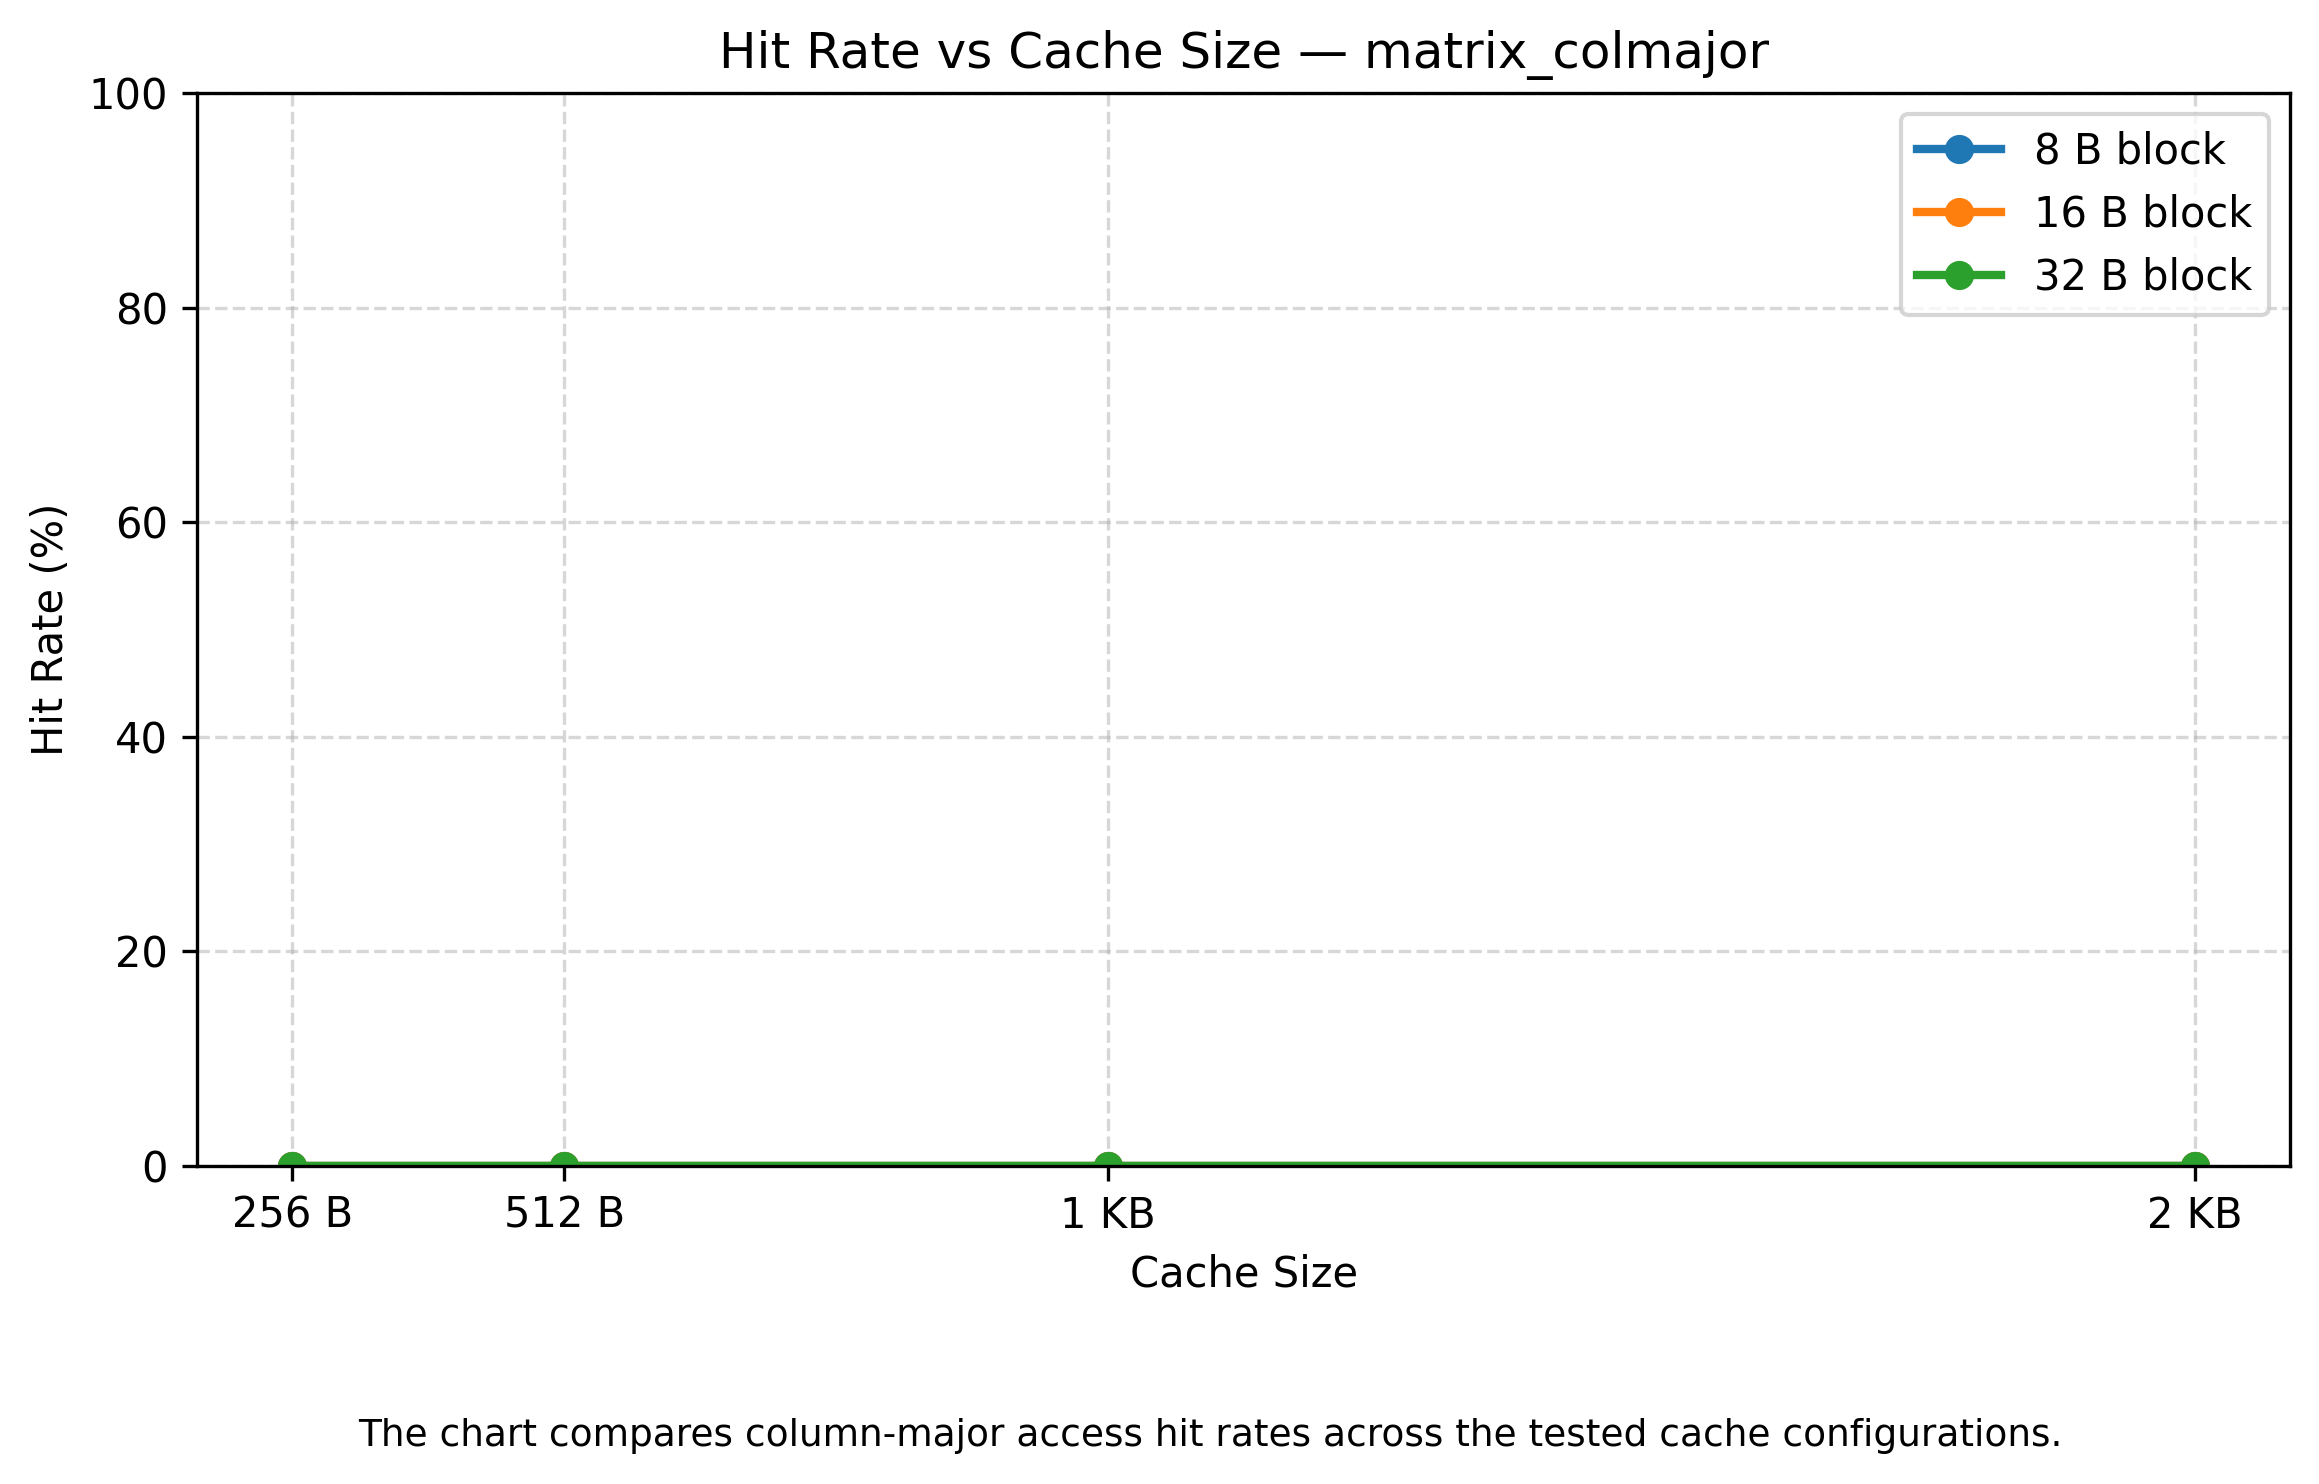
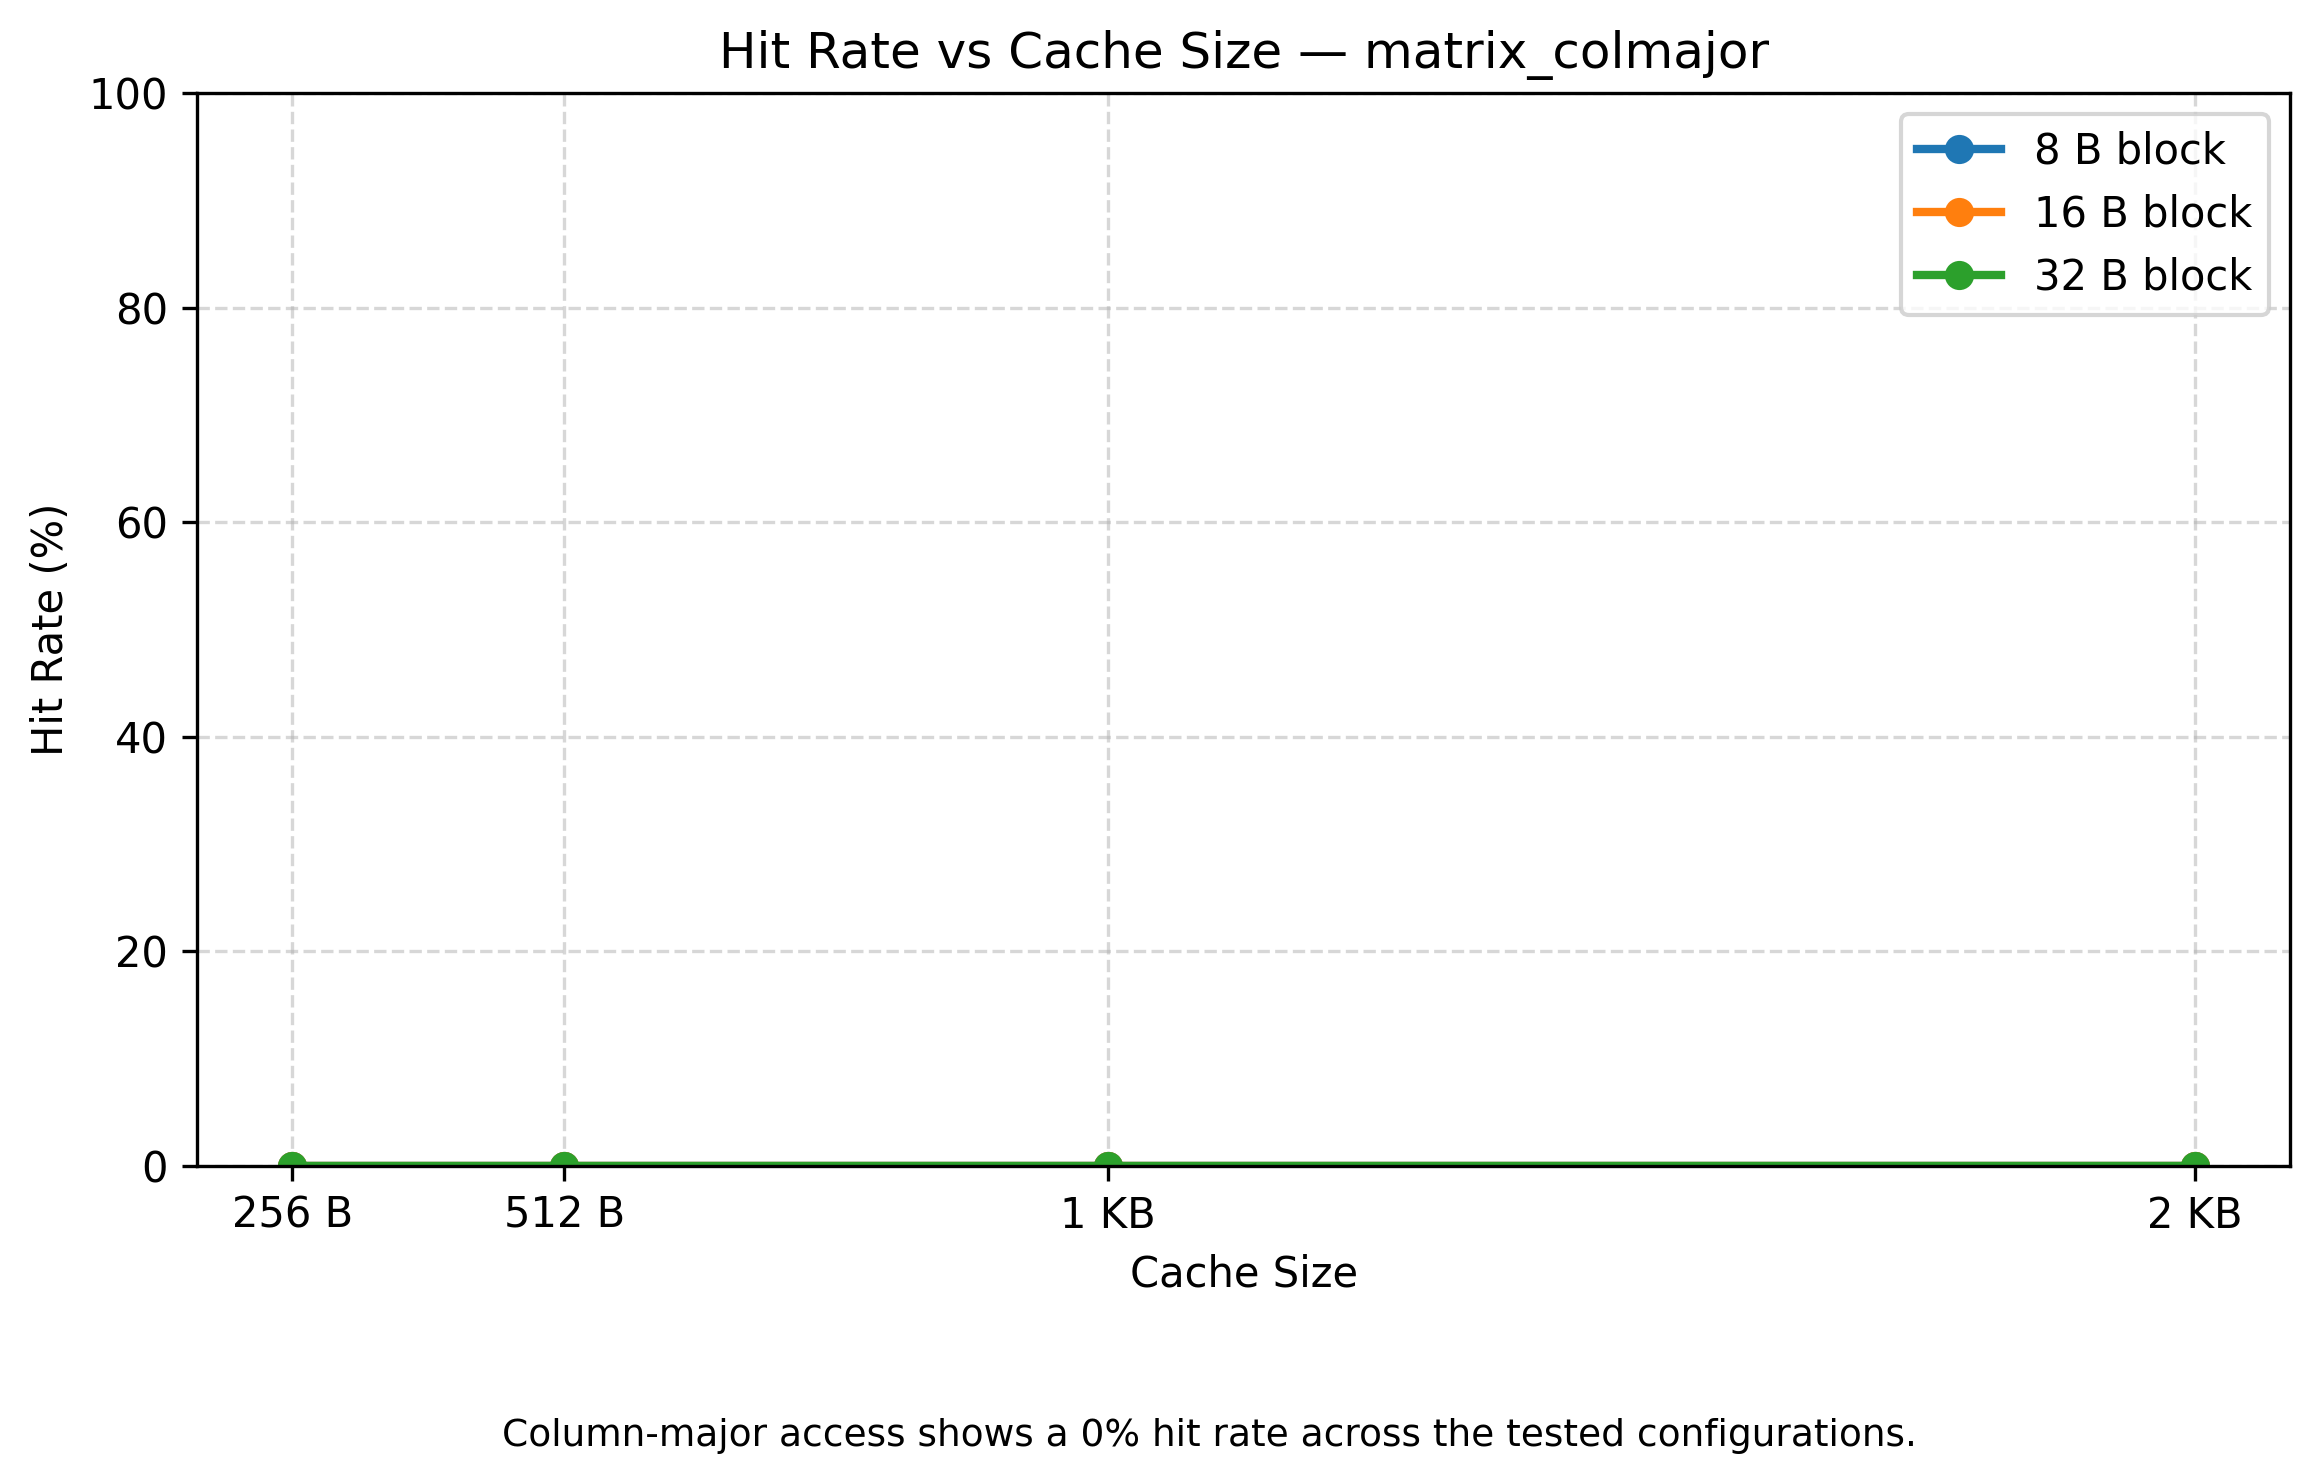
fix: correct performance plots and add block diagram

Changed region(s): [[0.1552, 0.9609, 0.8693, 0.9919]]

diff --git a/scripts/plot_results.py b/scripts/plot_results.py
@@ -4,9 +4,16 @@ import re
 from pathlib import Path
 import matplotlib.pyplot as plt
 
+
+# --------------------------------------------------
+# PATHS AND HELPERS
+# --------------------------------------------------
+
 ROOT = Path(__file__).resolve().parent.parent
 RESULTS = ROOT / "docs" / "results"
 OUT = RESULTS / "plots"
+DOCS = ROOT / "docs"
+
 OUT.mkdir(parents=True, exist_ok=True)
 
 
@@ -19,10 +26,19 @@ def save_plot(filename):
     plt.tight_layout()
     plt.savefig(OUT / filename, dpi=300, bbox_inches="tight")
     plt.close()
-    print(f"Created: {filename}")
+    print(f"Created: {OUT / filename}")
 
 
-# 1. Hit rate and miss rate comparison
+def save_docs_plot(filename):
+    plt.savefig(DOCS / filename, dpi=300, bbox_inches="tight")
+    plt.close()
+    print(f"Created: {DOCS / filename}")
+
+
+# --------------------------------------------------
+# 1. HIT RATE AND MISS RATE COMPARISON
+# --------------------------------------------------
+
 data = read_csv("results_table.csv")
 
 traces = [r["trace"] for r in data]
@@ -33,6 +49,7 @@ plt.figure(figsize=(11, 5))
 plt.bar(traces, hits, label="Hit Rate")
 plt.bar(traces, misses, bottom=hits, label="Miss Rate")
 
+plt.xlabel("Memory Access Trace")
 plt.ylabel("Percentage (%)")
 plt.title("Cache Hit and Miss Rate Comparison")
 plt.xticks(rotation=35, ha="right")
@@ -42,7 +59,10 @@ plt.legend()
 save_plot("hit_miss_comparison.png")
 
 
-# 2. AMAT comparison
+# --------------------------------------------------
+# 2. AMAT COMPARISON
+# --------------------------------------------------
+
 amat_key = next(
     k for k in data[0]
     if "avg_cycles_per_access" in k
@@ -51,6 +71,7 @@ amat_key = next(
 plt.figure(figsize=(10, 5))
 plt.bar(traces, [float(r[amat_key]) for r in data])
 
+plt.xlabel("Memory Access Trace")
 plt.ylabel("Average Cycles per Access")
 plt.title("AMAT Comparison Across Traces")
 plt.xticks(rotation=35, ha="right")
@@ -58,7 +79,12 @@ plt.xticks(rotation=35, ha="right")
 save_plot("amat_comparison.png")
 
 
-# 3. Cache configuration sweep
+# --------------------------------------------------
+# 3. CACHE CONFIGURATION SWEEP
+# FIX: Plot only random trace to avoid mixing
+# random and matrix_colmajor results.
+# --------------------------------------------------
+
 sweep = read_csv("sweep.csv")
 
 block_sizes = sorted({
@@ -68,8 +94,13 @@ block_sizes = sorted({
 plt.figure(figsize=(9, 5))
 
 for block in block_sizes:
+
     subset = sorted(
-        [r for r in sweep if int(r["block_bytes"]) == block],
+        [
+            r for r in sweep
+            if r["trace"] == "random"
+            and int(r["block_bytes"]) == block
+        ],
         key=lambda r: int(r["cache_bytes"])
     )
 
@@ -82,71 +113,103 @@ for block in block_sizes:
 
 plt.xlabel("Cache Size (KB)")
 plt.ylabel("Hit Rate (%)")
-plt.title("Cache Configuration Sweep")
+plt.title("Cache Configuration Sweep — Random Trace")
 plt.legend()
+plt.grid(True, linestyle="--", alpha=0.5)
 
 save_plot("cache_sweep.png")
 
 
-# 4. Memory latency sweep
-latency = read_csv("lat_sweep.csv")
+# --------------------------------------------------
+# 4. MEMORY LATENCY SWEEP
+# FIX: One no-cache line instead of repeating
+# identical no-cache lines for every trace.
+# --------------------------------------------------
 
+latency = read_csv("lat_sweep.csv")
 first = latency[0]
 
 plt.figure(figsize=(11, 6))
 
-for prefix in ("cache", "nocache"):
+# Cache lines: one for each trace
+cache_columns = [
+    c for c in first
+    if c.startswith("cache_LAT")
+]
 
-    columns = [
-        c for c in first
-        if c.startswith(prefix + "_LAT")
+cache_columns.sort(
+    key=lambda c: int(re.search(r"(\d+)$", c).group(1))
+)
+
+cache_x = [
+    int(re.search(r"(\d+)$", c).group(1))
+    for c in cache_columns
+]
+
+for row in latency:
+
+    cache_values = [
+        float(row[c]) for c in cache_columns
     ]
 
-    columns.sort(
-        key=lambda c: int(re.search(r"(\d+)$", c).group(1))
+    plt.plot(
+        cache_x,
+        cache_values,
+        marker="o",
+        label=f"{row['trace']} (cache)"
     )
 
-    for row in latency:
 
-        values = [float(row[c]) for c in columns]
+# One shared no-cache line
+nocache_columns = [
+    c for c in first
+    if c.startswith("nocache_LAT")
+]
 
-        x = [
-            int(re.search(r"(\d+)$", c).group(1))
-            for c in columns
-        ]
+nocache_columns.sort(
+    key=lambda c: int(re.search(r"(\d+)$", c).group(1))
+)
 
-        plt.plot(
-            x,
-            values,
-            marker="o",
-            label=f"{row['trace']} ({prefix})"
-        )
+nocache_x = [
+    int(re.search(r"(\d+)$", c).group(1))
+    for c in nocache_columns
+]
+
+nocache_values = [
+    float(first[c]) for c in nocache_columns
+]
+
+plt.plot(
+    nocache_x,
+    nocache_values,
+    linestyle="--",
+    linewidth=2,
+    color="black",
+    label="No cache"
+)
 
 plt.xlabel("Memory Latency (Cycles)")
 plt.ylabel("Average Cycles per Access")
 plt.title("Memory Latency Impact")
-plt.legend(fontsize=7)
+plt.legend(fontsize=8)
+plt.grid(True, linestyle="--", alpha=0.5)
 
 save_plot("latency_sweep.png")
 
 
-# 5. Additional charts requested by Priyal
-
-DOCS = ROOT / "docs"
-
-
-def save_docs_plot(filename):
-    plt.savefig(DOCS / filename, dpi=300, bbox_inches="tight")
-    plt.close()
-    print(f"Created: docs/{filename}")
+# --------------------------------------------------
+# 5. ADDITIONAL CHARTS REQUESTED BY PRIYAL
+# --------------------------------------------------
 
 
 # 5A and 5B. Separate cache sweep charts
 
 def make_trace_sweep_chart(trace_name, output_filename, takeaway):
+
     fig, ax = plt.subplots(figsize=(9, 5.5))
 
     for block in (8, 16, 32):
+
         subset = sorted(
             [
                 r for r in sweep
@@ -174,7 +237,13 @@ def make_trace_sweep_chart(trace_name, output_filename, takeaway):
     ax.legend()
 
     fig.subplots_adjust(bottom=0.23)
-    fig.text(0.5, 0.06, takeaway, ha="center", fontsize=9, wrap=True)
+    fig.text(
+        0.5, 0.06,
+        takeaway,
+        ha="center",
+        fontsize=9,
+        wrap=True
+    )
 
     save_docs_plot(output_filename)
 
@@ -188,11 +257,12 @@ make_trace_sweep_chart(
 make_trace_sweep_chart(
     "matrix_colmajor",
     "matrix_colmajor_cache_sweep.png",
-    "The chart compares column-major access hit rates across the tested cache configurations."
+    "Column-major access shows a 0% hit rate across the tested configurations."
 )
 
 
 # 5C. Hit rate comparison for all 8 traces
+# Baseline results: 1 KB cache / 16 B block
 
 fig, ax = plt.subplots(figsize=(11, 5.5))
 
@@ -209,6 +279,7 @@ ax.tick_params(axis="x", rotation=35)
 ax.grid(axis="y", linestyle="--", alpha=0.5)
 
 for bar, rate in zip(bars, hit_rates):
+
     ax.text(
         bar.get_x() + bar.get_width() / 2,
         bar.get_height() + 1,
@@ -218,6 +289,7 @@ for bar, rate in zip(bars, hit_rates):
     )
 
 fig.subplots_adjust(bottom=0.32)
+
 fig.text(
     0.5, 0.025,
     "The chart highlights how different memory access patterns affect cache hit rate.",
@@ -229,5 +301,10 @@ fig.text(
 save_docs_plot("trace_hit_rates.png")
 
 
+# --------------------------------------------------
+# FINISHED
+# --------------------------------------------------
+
 print("\nAll plots generated successfully!")
-print(f"Output folder: {OUT}")
+print(f"Existing plots folder: {OUT}")
+print(f"Additional charts folder: {DOCS}")
